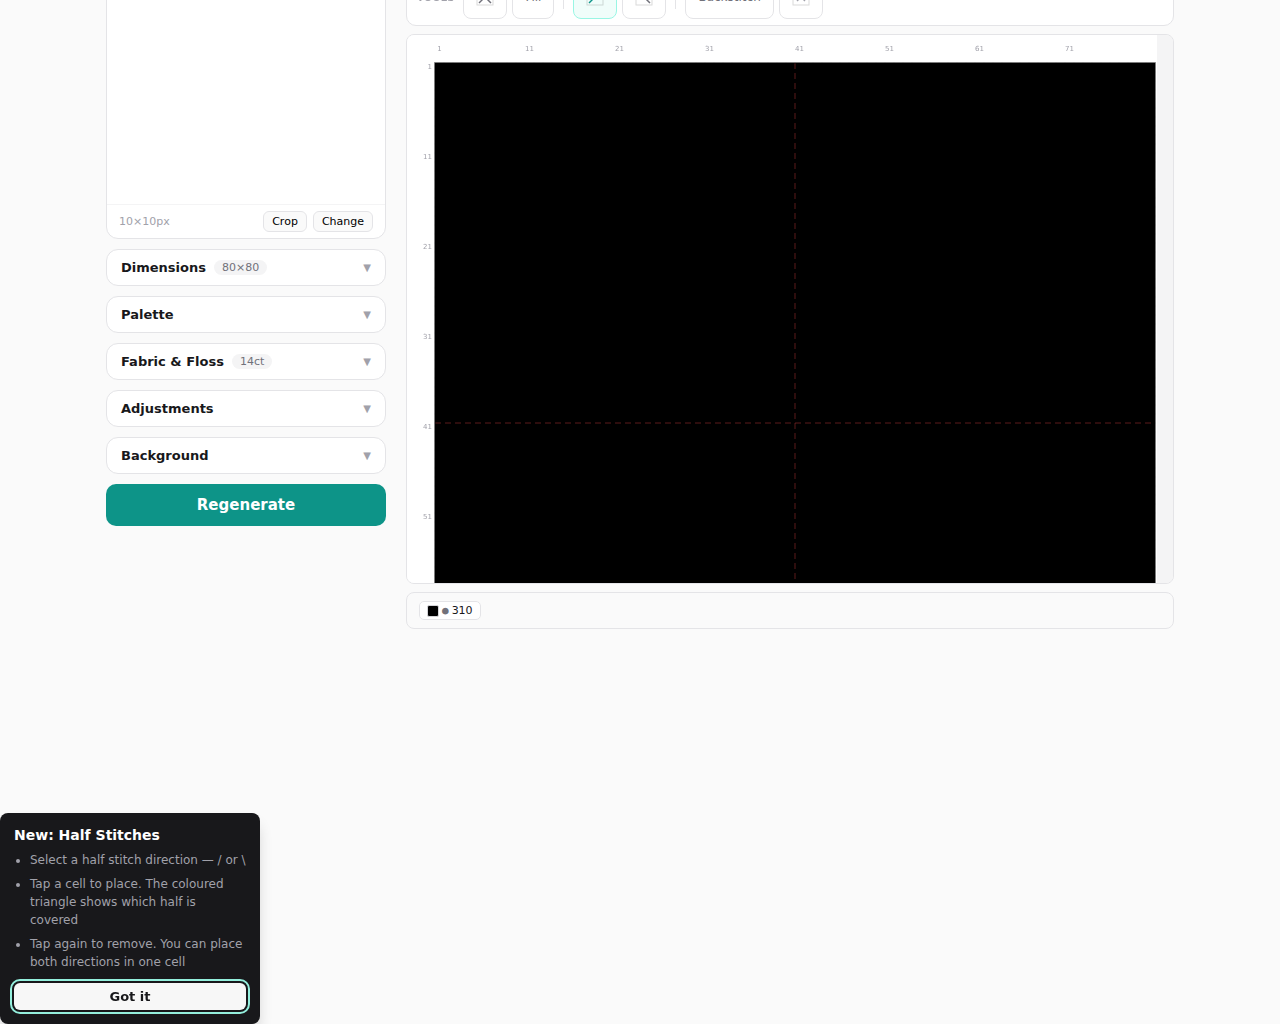
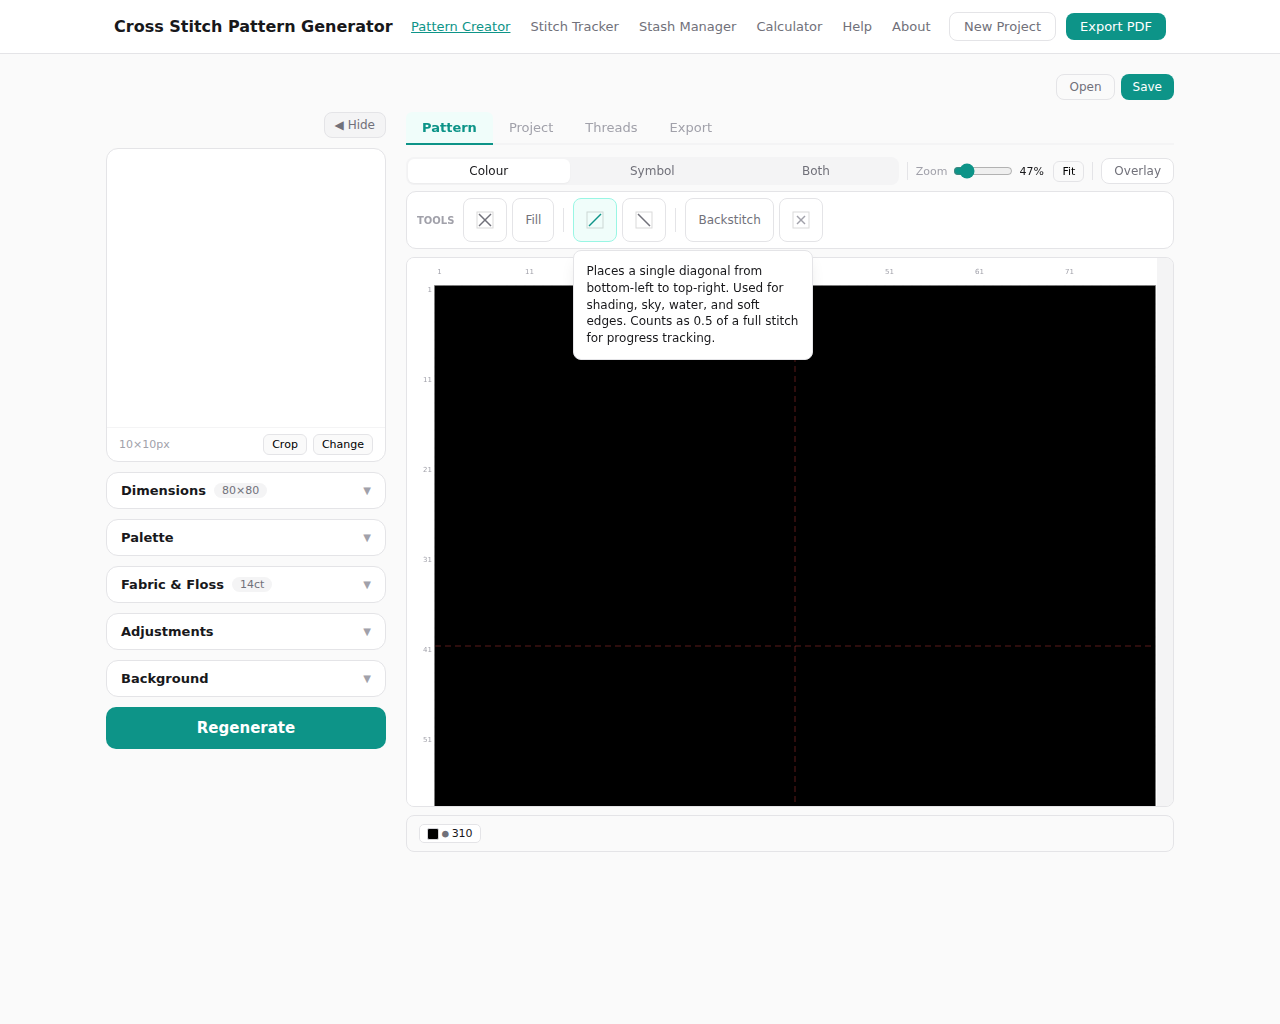
feat: implement half stitch rendering upgrades and UI guidance
- Add triangle tint rendering for half stitches based on cell coverage.
- Adjust opacities by view mode (creator, tracker unmarked/marked/mixed).
- Introduce 44x44px toolbar SVG icons for full and half stitches.
- Add dismissible first-time onboarding walkthrough for fractional stitches.
- Replace blocking native alert/confirm with custom toast notifications.
- Enable independent marking of two-stitch cells in tracker with a disambiguation popup for near-center taps.
- Update legend and stats panels to break down half and full stitch counts independently.

diff --git a/creator-app.js b/creator-app.js
@@ -155,7 +155,7 @@ function copyText(t,l){navigator.clipboard.writeText(t).then(()=>{setCopied(l);s
 function resetAll(){
   setPat(null);setPal(null);setCmap(null);setHiId(null);setBsLines([]);setBsStart(null);
   setActiveTool(null);setSelectedColorId(null);setEditHistory([]);setExportPage(0);
-  setHalfStitchOnboarding(false);
+  if (localStorage.getItem("halfStitchOnboardingSeen") === "true") setHalfStitchOnboarding(false);
   setDone(null);setParkMarkers([]);setHlRow(-1);setHlCol(-1);
   setTotalTime(0);setSessions([]);setThreadOwned({});
   setHasGenerated(false);
@@ -418,7 +418,7 @@ function drawPattern(ctx,offX,offY,dW,dH,cSz,gut, viewportRect=null, showOverlay
       }
   }
 
-  for(let y2=startY;y2<endY;y2++)for(let x2=startX;x2<endX;x2++){let idx=(offY+y2)*sW+(offX+x2);let m=pat[idx];if(!m)continue;let info=m.id==="__skip__"?null:(cmap?cmap[m.id]:null);let px=gut+x2*cSz,py=gut+y2*cSz;let isHi=!hiId||m.id===hiId;let dim=hiId&&!isHi&&m.id!=="__skip__";
+  for(let y2=startY;y2<endY;y2++){for(let x2=startX;x2<endX;x2++){let idx=(offY+y2)*sW+(offX+x2);let m=pat[idx];if(!m)continue;let info=m.id==="__skip__"?null:(cmap?cmap[m.id]:null);let px=gut+x2*cSz,py=gut+y2*cSz;let isHi=!hiId||m.id===hiId;let dim=hiId&&!isHi&&m.id!=="__skip__";
     if(m.id==="__skip__"){
       if(showOverlayImg){
         ctx.globalAlpha=0.2;drawCk(ctx,px,py,cSz);ctx.globalAlpha=1.0;
@@ -557,14 +557,6 @@ function drawPattern(ctx,offX,offY,dW,dH,cSz,gut, viewportRect=null, showOverlay
             ctx.strokeStyle=`rgba(0,0,0,${sAlpha})`;ctx.strokeRect(px,py,cSz,cSz);
         }
     }
-
-    // Check if this cell is currently flashing red
-    if (redFlashCell === i) {
-        ctx.strokeStyle = "rgba(255, 0, 0, 0.8)";
-        ctx.lineWidth = 2;
-        ctx.strokeRect(px+1, py+1, cSz-2, cSz-2);
-        ctx.lineWidth = 1;
-    }
     else if(view==="color"||view==="both"){
       let alpha = 1.0;
       if (dim) alpha = 0.15;
@@ -586,7 +578,7 @@ function drawPattern(ctx,offX,offY,dW,dH,cSz,gut, viewportRect=null, showOverlay
       if (showOverlayImg) sAlpha = dim ? 0.01 : 0.04;
       ctx.strokeStyle=`rgba(0,0,0,${sAlpha})`;ctx.strokeRect(px,py,cSz,cSz);
     }
-  }
+  }}
   if(cSz>=3){ctx.strokeStyle="rgba(0,0,0,0.2)";ctx.lineWidth=cSz>=8?1.5:1;for(let gx=Math.floor(startX/10)*10;gx<=endX;gx+=10){ctx.beginPath();ctx.moveTo(gut+gx*cSz, Math.max(gut, viewportRect ? viewportRect.top : 0));ctx.lineTo(gut+gx*cSz, Math.min(gut+dH*cSz, viewportRect ? viewportRect.bottom : gut+dH*cSz));ctx.stroke();}for(let gy=Math.floor(startY/10)*10;gy<=endY;gy+=10){ctx.beginPath();ctx.moveTo(Math.max(gut, viewportRect ? viewportRect.left : 0), gut+gy*cSz);ctx.lineTo(Math.min(gut+dW*cSz, viewportRect ? viewportRect.right : gut+dW*cSz), gut+gy*cSz);ctx.stroke();}}
   if(showCtr){ctx.strokeStyle="rgba(200,60,60,0.3)";ctx.lineWidth=1.5;ctx.setLineDash([6,4]);let cx2=Math.floor(sW/2)-offX,cy2=Math.floor(sH/2)-offY;if(cx2>=startX&&cx2<=endX){ctx.beginPath();ctx.moveTo(gut+cx2*cSz, Math.max(gut, viewportRect ? viewportRect.top : 0));ctx.lineTo(gut+cx2*cSz, Math.min(gut+dH*cSz, viewportRect ? viewportRect.bottom : gut+dH*cSz));ctx.stroke();}if(cy2>=startY&&cy2<=endY){ctx.beginPath();ctx.moveTo(Math.max(gut, viewportRect ? viewportRect.left : 0), gut+cy2*cSz);ctx.lineTo(Math.min(gut+dW*cSz, viewportRect ? viewportRect.right : gut+dW*cSz), gut+cy2*cSz);ctx.stroke();}ctx.setLineDash([]);}
   if(bsLines.length>0){
